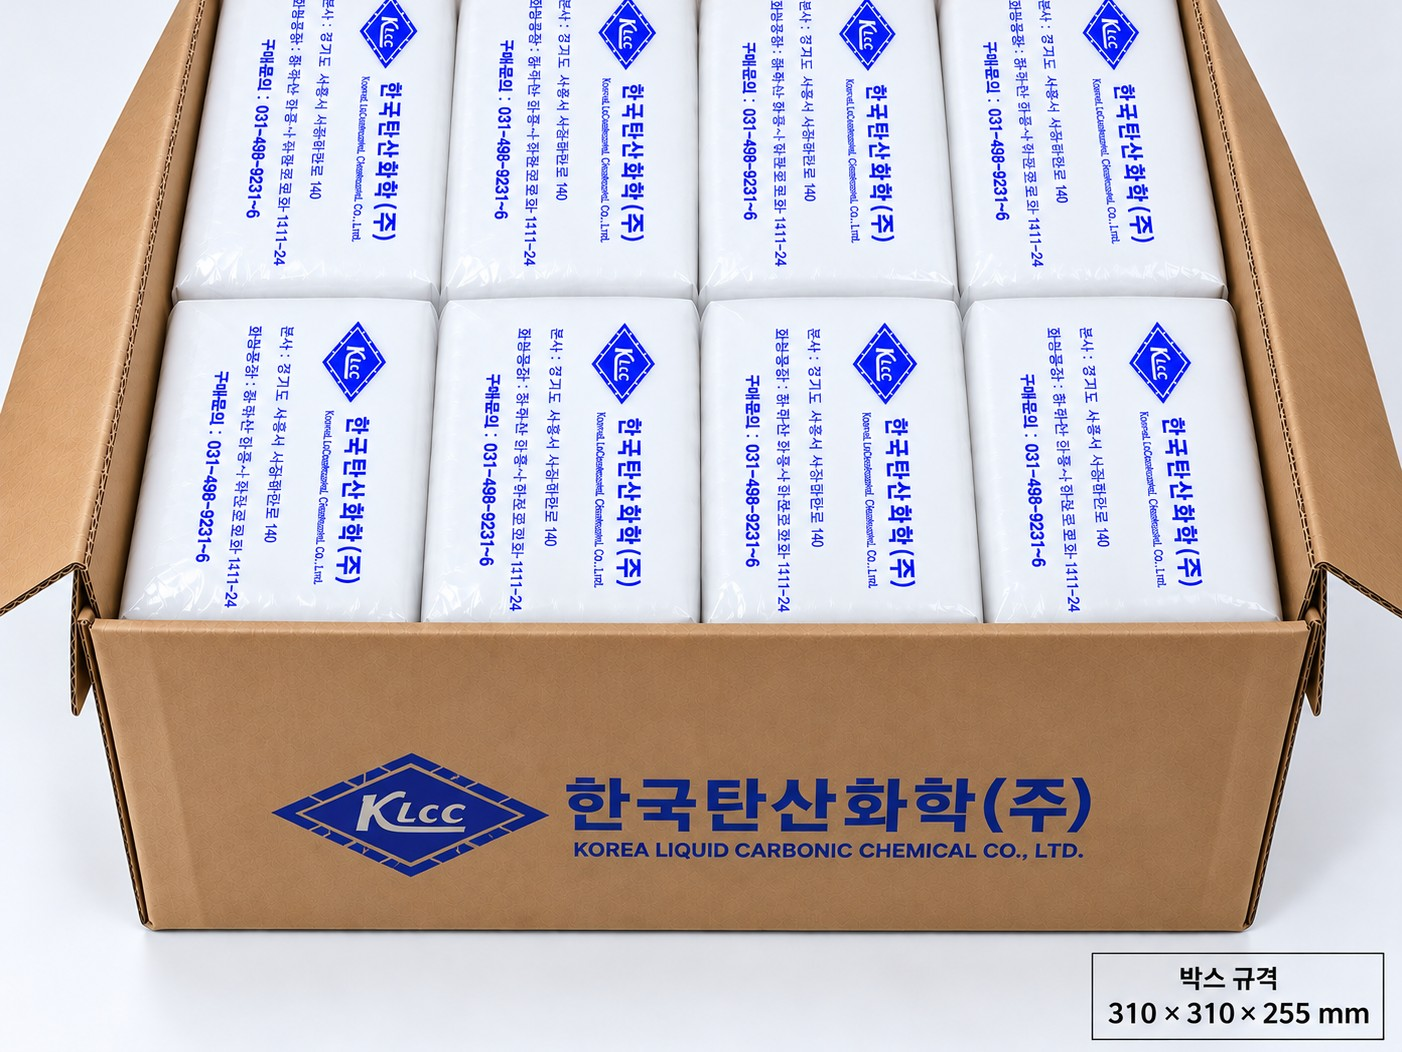
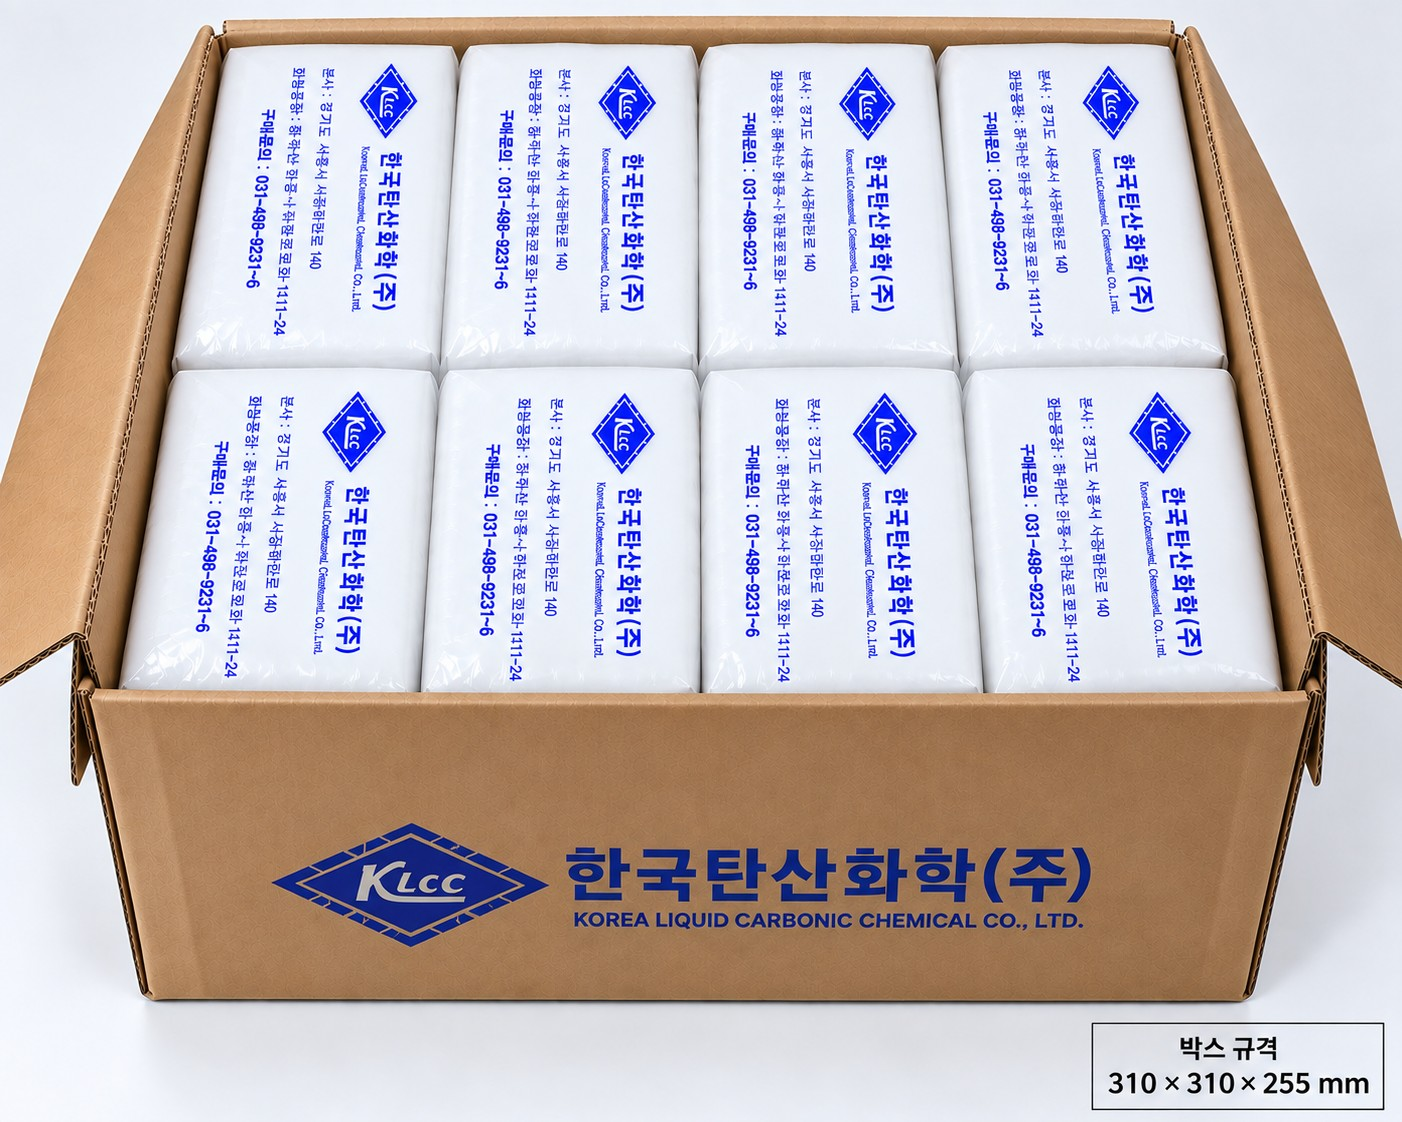
드라이아이스 48P 규격 정리: 규격 도면 삭제·박스 사진 전체 표시(잘림 방지)·표 규격 310×310×255 및 포장형태 '개별포장' 반영. ice-box-pack.jpg ?v=20260910b, style.css ?v=455

Changed region(s): [[0.0, 0.0, 1.0, 1.0], [0.184, 0.6996, 0.7974, 0.8517]]

diff --git a/products-ice.html b/products-ice.html
@@ -7,7 +7,7 @@
   <meta name="description" content="드라이아이스 너겟·블록 생산설비 日産 36톤. 고밀도 1.60g/㎤·고순도 99.995% 식품용 드라이아이스와 제조공정·용도·취급안전을 소개합니다.">
   <link rel="stylesheet" href="assets/css/reset.css">
   <link rel="stylesheet" href="assets/css/variables.css?v=20260801">
-  <link rel="stylesheet" href="assets/css/style.css?v=20260731-453">
+  <link rel="stylesheet" href="assets/css/style.css?v=20260731-455">
 </head>
 <body>
 
@@ -295,16 +295,15 @@
                   <tbody><tr><td>99.995%</td><td>약 1.60 g/㎤</td><td>너겟(사각형)</td><td>고순도 CO₂ · 빠른 냉각 · 다양한 용도</td></tr></tbody>
                 </table>
                 <h4 class="icespec__subhead">48P 포장 규격</h4>
-                <div class="icespec-figs">
-                  <div class="icespec-figs__photo"><img src="assets/images/site/ice-box-pack.jpg?v=20260910" alt="한국탄산화학㈜ 48P 드라이아이스 박스 포장" loading="lazy"></div>
-                  <figure class="icespec-figs__dim"><img src="assets/images/site/icespec/box3d.png?v=20260829" alt="48P 포장 규격 312×250×270mm" loading="lazy"></figure>
+                <div class="icespec-figs icespec-figs--single">
+                  <div class="icespec-figs__photo icespec-figs__photo--full"><img src="assets/images/site/ice-box-pack.jpg?v=20260910b" alt="한국탄산화학㈜ 48P 드라이아이스 박스 포장" loading="lazy"></div>
                 </div>
                 <table class="specrows">
                   <tbody>
                     <tr><th>포장 수량</th><td>48개입</td></tr>
                     <tr><th>배열(가로×세로×높이)</th><td>4열 × 2행 × 6단 <span>(총 48개)</span></td></tr>
-                    <tr><th>전체 포장 규격(mm)</th><td>312 × 250 × 270 <span>(가로 × 세로 × 높이)</span></td></tr>
-                    <tr><th>포장 형태</th><td>비닐 라이너 + 종이박스 + 외부 비닐 포장</td></tr>
+                    <tr><th>전체 포장 규격(mm)</th><td>310 × 310 × 255 <span>(가로 × 세로 × 높이)</span></td></tr>
+                    <tr><th>포장 형태</th><td>개별포장 + 종이박스 + 외부 비닐 포장</td></tr>
                   </tbody>
                 </table>
               </div>

diff --git a/assets/css/style.css b/assets/css/style.css
@@ -1822,6 +1822,10 @@ html[lang="en"] .greeting__sign .sign-name { display: block; margin-left: 0; mar
 .icespec-tabs { margin-top: var(--space-8); }
 .icespec-tabs .icespec-col { border: none; box-shadow: none; padding: var(--space-2) 0 0; }
 .icespec-tabs .icespec-figs { max-width: 920px; grid-template-columns: 1.35fr 1fr; }
+.icespec-tabs .icespec-figs--single { grid-template-columns: 1fr; max-width: 540px; }
+/* 48P 포장 사진: 전체 이미지가 잘리지 않도록 자연 비율로 표시 */
+.icespec-figs__photo--full { aspect-ratio: auto; background: #fff; }
+.icespec-figs__photo--full img { height: auto; object-fit: contain; }
 .icespec-col--wide { margin-top: var(--space-6); }
 .icespec-col--wide .specpanel__title { margin-bottom: var(--space-5); }
 .handling--wide { grid-template-columns: repeat(3, 1fr); }

diff --git a/company.html b/company.html
@@ -7,7 +7,7 @@
   <meta name="description" content="한국탄산화학㈜ 회사소개 — 회사 개요, 주요 사업 영역, 연혁, 조직도, 생산시설 및 강점.">
   <link rel="stylesheet" href="assets/css/reset.css">
   <link rel="stylesheet" href="assets/css/variables.css?v=20260801">
-  <link rel="stylesheet" href="assets/css/style.css?v=20260731-453">
+  <link rel="stylesheet" href="assets/css/style.css?v=20260731-455">
   <!-- 대표이사 서명용 손글씨 폰트 (한글: Nanum Pen Script, 일어: Yomogi) -->
   <link rel="preconnect" href="https://fonts.googleapis.com">
   <link rel="preconnect" href="https://fonts.gstatic.com" crossorigin>

diff --git a/company-overview.html b/company-overview.html
@@ -8,7 +8,7 @@
   <meta name="description" content="한국탄산화학㈜ 회사 개요와 조직도 — 상호·설립·사업분야·생산제품 및 조직 구성.">
   <link rel="stylesheet" href="assets/css/reset.css">
   <link rel="stylesheet" href="assets/css/variables.css?v=20260801">
-  <link rel="stylesheet" href="assets/css/style.css?v=20260731-453">
+  <link rel="stylesheet" href="assets/css/style.css?v=20260731-455">
   <!-- 대표이사 서명용 손글씨 폰트 (한글: Nanum Pen Script, 일어: Yomogi) -->
   <link rel="preconnect" href="https://fonts.googleapis.com">
   <link rel="preconnect" href="https://fonts.gstatic.com" crossorigin>

diff --git a/company-network.html b/company-network.html
@@ -7,7 +7,7 @@
   <meta name="description" content="한국탄산화학㈜ 계열사 — 관계사 네트워크.">
   <link rel="stylesheet" href="assets/css/reset.css">
   <link rel="stylesheet" href="assets/css/variables.css?v=20260801">
-  <link rel="stylesheet" href="assets/css/style.css?v=20260731-453">
+  <link rel="stylesheet" href="assets/css/style.css?v=20260731-455">
   <!-- 대표이사 서명용 손글씨 폰트 (한글: Nanum Pen Script, 일어: Yomogi) -->
   <link rel="preconnect" href="https://fonts.googleapis.com">
   <link rel="preconnect" href="https://fonts.gstatic.com" crossorigin>

diff --git a/products-supply.html b/products-supply.html
@@ -7,7 +7,7 @@
   <meta name="description" content="고압가스 용기 재검사 — 한국가스안전공사 지정 전문검사기관 ㈜부성테크니컬(계열사)이 접수·내압시험·표면처리·판정의 4단계 검사로 용기 안전을 책임집니다.">
   <link rel="stylesheet" href="assets/css/reset.css">
   <link rel="stylesheet" href="assets/css/variables.css?v=20260801">
-  <link rel="stylesheet" href="assets/css/style.css?v=20260731-453">
+  <link rel="stylesheet" href="assets/css/style.css?v=20260731-455">
 </head>
 <body>
 

diff --git a/index.html b/index.html
@@ -7,7 +7,7 @@
   <meta name="description" content="한국탄산화학㈜(KLCC)는 산소·질소·아르곤·탄산·수소 등 산업용·의료용 가스와 드라이아이스를 제조·공급하는 전문기업입니다.">
   <link rel="stylesheet" href="assets/css/reset.css">
   <link rel="stylesheet" href="assets/css/variables.css?v=20260801">
-  <link rel="stylesheet" href="assets/css/style.css?v=20260731-453">
+  <link rel="stylesheet" href="assets/css/style.css?v=20260731-455">
 </head>
 <body>
 

diff --git a/products-construction.html b/products-construction.html
@@ -7,7 +7,7 @@
   <meta name="description" content="가스 설비 시설·시공 — 액화가스 저장탱크·기화설비·배관·공급설비를 설계부터 시운전·사후관리까지 원스톱으로 시공합니다.">
   <link rel="stylesheet" href="assets/css/reset.css">
   <link rel="stylesheet" href="assets/css/variables.css?v=20260801">
-  <link rel="stylesheet" href="assets/css/style.css?v=20260731-453">
+  <link rel="stylesheet" href="assets/css/style.css?v=20260731-455">
 </head>
 <body>
 

diff --git a/products-gas.html b/products-gas.html
@@ -7,7 +7,7 @@
   <meta name="description" content="산업용·의료용·혼합·특수·액화석유가스 — 고순도 산소·질소·아르곤·수소·헬륨·탄산·LPG를 Bulk·실린더로 공급·제조합니다.">
   <link rel="stylesheet" href="assets/css/reset.css">
   <link rel="stylesheet" href="assets/css/variables.css?v=20260801">
-  <link rel="stylesheet" href="assets/css/style.css?v=20260731-453">
+  <link rel="stylesheet" href="assets/css/style.css?v=20260731-455">
 </head>
 <body>
 

diff --git a/quality.html b/quality.html
@@ -7,7 +7,7 @@
   <meta name="description" content="고순도 제조 역량, 식품첨가물 탄산가스 품질, 용기검사장, Gas Service Team.">
   <link rel="stylesheet" href="assets/css/reset.css">
   <link rel="stylesheet" href="assets/css/variables.css?v=20260801">
-  <link rel="stylesheet" href="assets/css/style.css?v=20260731-453">
+  <link rel="stylesheet" href="assets/css/style.css?v=20260731-455">
 </head>
 <body>
 

diff --git a/support.html b/support.html
@@ -7,7 +7,7 @@
   <meta name="description" content="한국탄산화학 고객지원 — 사업장 연락처, 자주 묻는 질문.">
   <link rel="stylesheet" href="assets/css/reset.css">
   <link rel="stylesheet" href="assets/css/variables.css?v=20260801">
-  <link rel="stylesheet" href="assets/css/style.css?v=20260731-453">
+  <link rel="stylesheet" href="assets/css/style.css?v=20260731-455">
 </head>
 <body>
 
